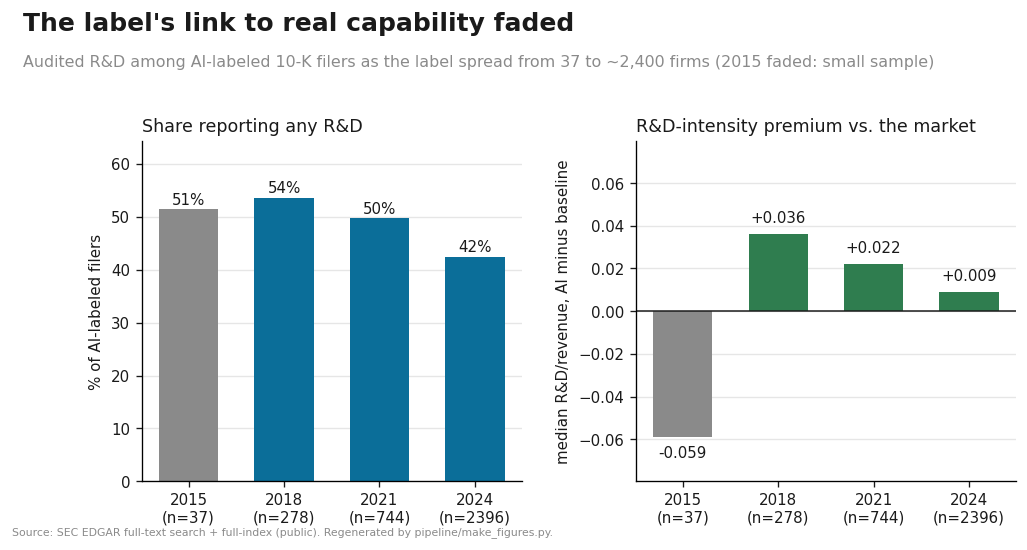
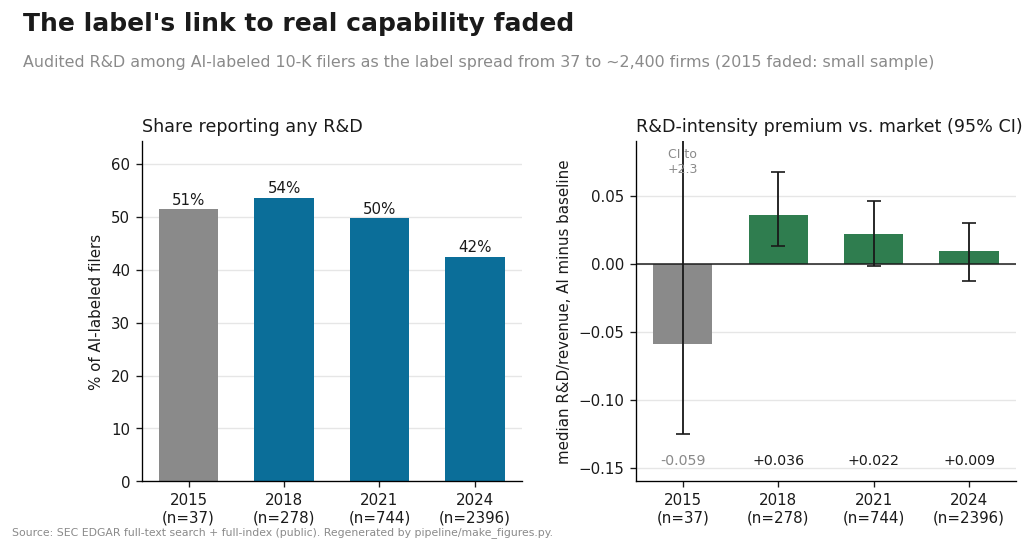
Add 95% bootstrap CIs to the F4 informativeness premium (R2)
Confidence intervals where sampling is real. The R&D-intensity premium is a
median over a firm-level sample, so it gets a 95% bootstrap CI (2,000 resamples,
fixed seed, deterministic). Result sharpens the claim:
  2018  +0.036  [0.013, 0.067]   excludes zero  (a real premium)
  2021  +0.022  [-0.002, 0.046]  marginal
  2024  +0.009  [-0.013, 0.030]  includes zero  (gone)
  2015  -0.059  [-0.125, +2.315] uninformative (n=37; off-scale, flagged)
So the label carried a premium distinguishable from zero in 2018 and no longer
does by 2024, which is stronger than the point-estimate decline.

- pipeline/informativeness.py: deterministic bootstrap; adds premium_ci_lo/hi.
- make_figures.py: F4 premium panel now has error bars; 2015 CI annotated off-scale.
- The count-based figures (F1/F2/F3/F5) are near-census, not samples, so no CI is
  drawn for them; stated in the paper limitations and METHODOLOGY.
- README, RESULTS, paper, methodology updated. No em dashes; gate + grep clean;
  F4 renders deterministically.

diff --git a/pipeline/informativeness.py b/pipeline/informativeness.py
@@ -17,10 +17,26 @@ Lemons signature: % falls, intensity falls, premium compresses over time.
 
 Heavy step (cached/resumable): the full AI CIK list per year via FTS paging.
 """
-import json, os, sys, time, urllib.parse, urllib.request, statistics
+import json, os, sys, time, urllib.parse, urllib.request, statistics, random
 DATA = os.path.join(os.path.dirname(__file__), "..", "data")
 UA = {"User-Agent": "AI Washing Research (HKS PAE) [email redacted]"}
 YEARS = [2015, 2018, 2021, 2024]   # pre / ramp / post-ChatGPT-onset / post
+
+# Deterministic bootstrap for the premium's 95% CI (fixed seed -> reproducible).
+BOOT = 2000
+_RNG = random.Random(20260709)
+def premium_ci(ai_int, base_int, B=BOOT):
+    """95% bootstrap CI for (median AI R&D-intensity - median baseline). Resamples each
+    group with replacement. Returns (lo, hi) rounded, or (None, None) if a group is empty."""
+    if not ai_int or not base_int:
+        return (None, None)
+    diffs = []
+    for _ in range(B):
+        a = statistics.median(_RNG.choices(ai_int, k=len(ai_int)))
+        b = statistics.median(_RNG.choices(base_int, k=len(base_int)))
+        diffs.append(a - b)
+    diffs.sort()
+    return (round(diffs[int(0.025 * B)], 3), round(diffs[int(0.975 * B)], 3))
 
 def get(url, tries=8):
     for i in range(tries):
@@ -102,13 +118,16 @@ def main():
                "rnd_reporters_total": len(rnd)}
         rec["substance_premium"] = (round(rec["ai_median_rnd_intensity"] - rec["baseline_median_rnd_intensity"], 3)
                                     if rec["ai_median_rnd_intensity"] and rec["baseline_median_rnd_intensity"] else None)
+        lo, hi = premium_ci(ai_int, base_int)
+        rec["premium_ci_lo"], rec["premium_ci_hi"] = lo, hi
         rows.append(rec)
         print(f"   {y}: AI firms={ai_n}  %reporting R&D={rec['pct_ai_reporting_rnd']}  "
               f"AI med R&D/rev={rec['ai_median_rnd_intensity']}  baseline={rec['baseline_median_rnd_intensity']}  "
-              f"premium={rec['substance_premium']}", flush=True)
+              f"premium={rec['substance_premium']}  95% CI=[{lo}, {hi}]", flush=True)
 
     cols = ["year","ai_firms","pct_ai_reporting_rnd","ai_median_rnd_intensity",
-            "baseline_median_rnd_intensity","substance_premium","rnd_reporters_total"]
+            "baseline_median_rnd_intensity","substance_premium","premium_ci_lo","premium_ci_hi",
+            "rnd_reporters_total"]
     with open(os.path.join(DATA, "informativeness.csv"), "w") as f:
         f.write(",".join(cols) + "\n")
         for r in rows:

diff --git a/pipeline/make_figures.py b/pipeline/make_figures.py
@@ -174,16 +174,24 @@ def fig4_informativeness(info):
     axA.set_title("Share reporting any R&D", fontsize=10.5, color=INK, loc="left")
     axA.set_ylabel("% of AI-labeled filers", fontsize=9, color=INK)
 
-    # Panel B: R&D-intensity premium over the market baseline
+    # Panel B: R&D-intensity premium over the market baseline, with 95% bootstrap CIs.
+    lo = [float(r["premium_ci_lo"]) for r in info]
+    hi = [float(r["premium_ci_hi"]) for r in info]
     colors = [MUTED if s else (SUBST if v >= 0 else MARKET) for s, v in zip(small, prem)]
     axB.bar(x, prem, color=colors, width=0.62)
     axB.axhline(0, color=INK, linewidth=0.9)
-    for xi, v in zip(x, prem):
-        axB.text(xi, v + (0.004 if v >= 0 else -0.004), f"{v:+.3f}", ha="center",
-                 va="bottom" if v >= 0 else "top", fontsize=9, color=INK)
-    pad = max(abs(min(prem)), abs(max(prem))) * 1.35
-    axB.set_ylim(-pad, pad)
-    axB.set_title("R&D-intensity premium vs. the market", fontsize=10.5, color=INK, loc="left")
+    yerr = [[p - l for p, l in zip(prem, lo)], [h - p for h, p in zip(hi, prem)]]
+    axB.errorbar(x, prem, yerr=yerr, fmt="none", ecolor=INK, elinewidth=1.1, capsize=4)
+    # Fixed, readable window; the 2015 small-sample CI runs far off-scale and is annotated.
+    axB.set_ylim(-0.16, 0.09)
+    for xi, v, s in zip(x, prem, small):
+        axB.text(xi, -0.15, f"{v:+.3f}", ha="center", va="bottom", fontsize=8.5,
+                 color=MUTED if s else INK)
+    for xi, s, h in zip(x, small, hi):
+        if h > 0.09:  # CI whisker off the top (2015)
+            axB.annotate("CI to\n+%.1f" % h, (xi, 0.085), ha="center", va="top",
+                         fontsize=7.5, color=MUTED)
+    axB.set_title("R&D-intensity premium vs. market (95% CI)", fontsize=10.5, color=INK, loc="left")
     axB.set_ylabel("median R&D/revenue, AI minus baseline", fontsize=9, color=INK)
 
     for ax in (axA, axB):

diff --git a/paper/PAPER.md b/paper/PAPER.md
@@ -121,11 +121,16 @@ median R&D-intensity (R&D over revenue) premium of AI-labeled firms over the all
 baseline falls from +0.036 (2018) to +0.022 (2021) to +0.009 (2024). Over the same window the
 AI-labeled pool grows from 37 firms (2015) to 278 (2018), 744 (2021), and 2,396 (2024).
 
-The 2015 benchmark rests on only 37 firms and its negative point estimate (−0.059) is not
-reliable, so it is treated as a small sample, and the defensible reading is the decline
-across 2018–2024. That decline is consistent with a lemons dynamic (Akerlof, 1970): as a
-costless label spreads, the average quality of the firms carrying it converges toward the
-market, and the label's power to separate stronger firms from the rest weakens.
+95% bootstrap confidence intervals (2,000 resamples, resampling each group with
+replacement) sharpen the reading. The 2018 premium is +0.036 with a CI of [0.013, 0.067],
+which excludes zero. By 2024 it is +0.009 with a CI of [−0.013, 0.030], which includes zero.
+The 2021 value (+0.022, CI [−0.002, 0.046]) is marginal. In words, AI-labeled firms carried
+an R&D-intensity premium distinguishable from zero in 2018, and by 2024 they no longer do.
+The 2015 benchmark rests on only 37 firms, and its CI runs to +2.3 (a handful of
+tiny-revenue firms with very large R&D ratios), so it is uninformative and is treated as a
+small sample. This before-and-after pattern is consistent with a lemons dynamic (Akerlof,
+1970): as a costless label spreads, the average quality of the firms carrying it converges
+toward the market, and the label's power to separate stronger firms from the rest weakens.
 
 One confound deserves emphasis, because the broader project documents it directly. As the
 pool grows it fills with larger and less R&D-intensive firms, so part of the premium's
@@ -177,9 +182,12 @@ build buckets are summed upper bounds, so their levels overstate and only the di
 interpreted. Sector shares in the early 2000s rest on small samples. The informativeness test
 uses four benchmark years and audited R&D, which not all firms report, and the 2015 point in
 particular is a small sample; it is also subject to the composition confound noted in Section
-3.4. No confidence intervals are reported, so the series should be read as descriptive point
-estimates rather than tested differences. Because EDGAR accrues filings continuously,
-absolute counts drift even as the reported shapes hold.
+3.4. The informativeness premium (Section 3.4) is reported with 95% bootstrap confidence
+intervals, since it is a statistic of a firm-level sample. The prevalence, lexicon, sector,
+and placebo figures (Sections 3.1, 3.2, 3.3, 3.5) are near-complete counts of filings rather
+than samples, so they carry no sampling error and no interval is reported for them; their
+uncertainty is in the phrase definitions, not in sampling. Because EDGAR accrues filings
+continuously, absolute counts drift even as the reported shapes hold.
 
 ## 6. Conclusion
 

diff --git a/docs/RESULTS.md b/docs/RESULTS.md
@@ -67,11 +67,16 @@ For construction detail (denominators, phrase selection, identification), see
 - **Number:** measuring capability with **audited R&D** (hard to fake), as the AI
   label spread from **37** 10-K filers (2015) to **~2,400** (2024): the share of
   AI-labeled filers reporting *any* R&D fell to **42.4%** (2024), and their median
-  R&D-intensity premium over the market baseline compressed from **+0.036** (2018)
-  to **+0.022** (2021) to **+0.009** (2024), toward zero.
-- **Honesty flag:** the **2015** benchmark is only 37 firms (premium −0.059), too
-  small to trust, drawn faded in the figure. The defensible reading is the
-  **post-2018 compression**, when the AI pool first exceeds a few hundred firms.
+  R&D-intensity premium over the market baseline fell from **+0.036** (2018) to
+  **+0.022** (2021) to **+0.009** (2024), toward zero.
+- **With 95% bootstrap CIs (2,000 resamples, error bars in the figure):** the 2018
+  premium is **+0.036 [0.013, 0.067]**, which excludes zero; by 2024 it is
+  **+0.009 [−0.013, 0.030]**, which includes zero. So the label carried a premium
+  distinguishable from zero in 2018 and no longer does by 2024. 2021 is marginal
+  (**+0.022 [−0.002, 0.046]**).
+- **Honesty flag:** the **2015** benchmark is only 37 firms (premium −0.059) and its
+  CI runs to **+2.3** (a few tiny-revenue firms with huge R&D ratios), so it is
+  uninformative and drawn faded. The defensible reading is the 2018-to-2024 erosion.
 - **Why it's a null, not a hot take:** the claim is not "AI is hype"; it is that
   the label's *information content about real capability decayed* as it
   proliferated (a lemons precondition). This is one of several disciplining nulls

diff --git a/docs/METHODOLOGY.md b/docs/METHODOLOGY.md
@@ -163,6 +163,12 @@ so its design is spelled out:
   study; coverage gaps in free sources are a known limitation and are handled by the
   matched-control design rather than assumed away. A CRSP path exists for users with a
   license.
+- **Uncertainty.** The one figure computed from a firm-level sample, the
+  informativeness R&D-intensity premium (`informativeness.py`, F4), is reported with
+  95% bootstrap confidence intervals (2,000 resamples, fixed seed). The prevalence,
+  lexicon, sector, and placebo figures are near-complete counts of filings, not
+  samples, so they carry no sampling error; their uncertainty is in the phrase
+  definitions, not in sampling, and no interval is drawn for them.
 - **Envelopes vs. point estimates.** Capital-destruction figures are explicitly
   order-of-magnitude envelopes with stated bounds, not precise damages estimates.
 - **Population framing.** Every cohort statistic is a property of a screened population.

diff --git a/README.md b/README.md
@@ -29,7 +29,7 @@ These three are the market-wide backbone; the disciplining nulls and the small-c
 
 ### The disciplining null: the label's *information content* decayed
 
-The claim is not "AI is hype." It is that the label stopped carrying information about real capability. Measured with **audited R&D** (hard to fake): as the AI label spread from 37 to ~2,400 10-K filers, the share of AI-labeled filers reporting *any* R&D fell to **42%** (2024), and their R&D-intensity edge over the market fell toward zero (+0.036 to +0.009 across 2018–2024). The 2015 point is a small sample (37 firms) and is flagged as such, so the reading to trust is the post-2018 decline, not the noisy early year. One caveat: part of that decline can come from the pool filling with larger, less R&D-intensive firms, a composition effect a size control would separate (see limitations in the working paper).
+The claim is not "AI is hype." It is that the label stopped carrying information about real capability. Measured with **audited R&D** (hard to fake): as the AI label spread from 37 to ~2,400 10-K filers, the share of AI-labeled filers reporting *any* R&D fell to **42%** (2024), and their R&D-intensity edge over the market fell toward zero. With **95% bootstrap confidence intervals** (error bars in the figure), the 2018 premium is **+0.036 [0.013, 0.067]**, which excludes zero, and by 2024 it is **+0.009 [−0.013, 0.030]**, which includes zero: the premium was real in 2018 and is gone by 2024. The 2015 point is a small sample (37 firms, CI running to +2.3) and is flagged. One caveat: part of the decline can come from the pool filling with larger, less R&D-intensive firms, a composition effect a size control would separate (see limitations in the working paper).
 
 ![The label's link to real capability faded](docs/figures/f4_informativeness.png)
 